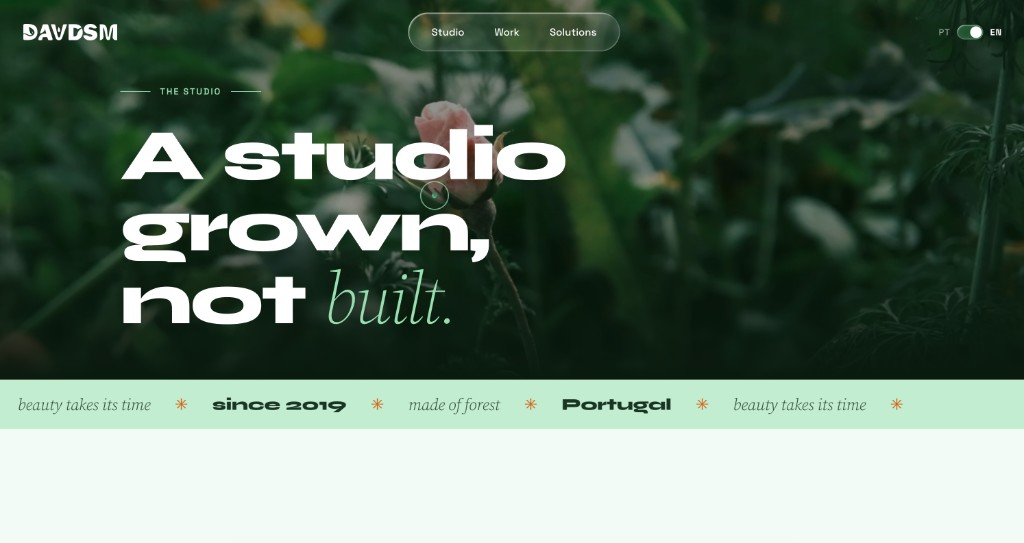
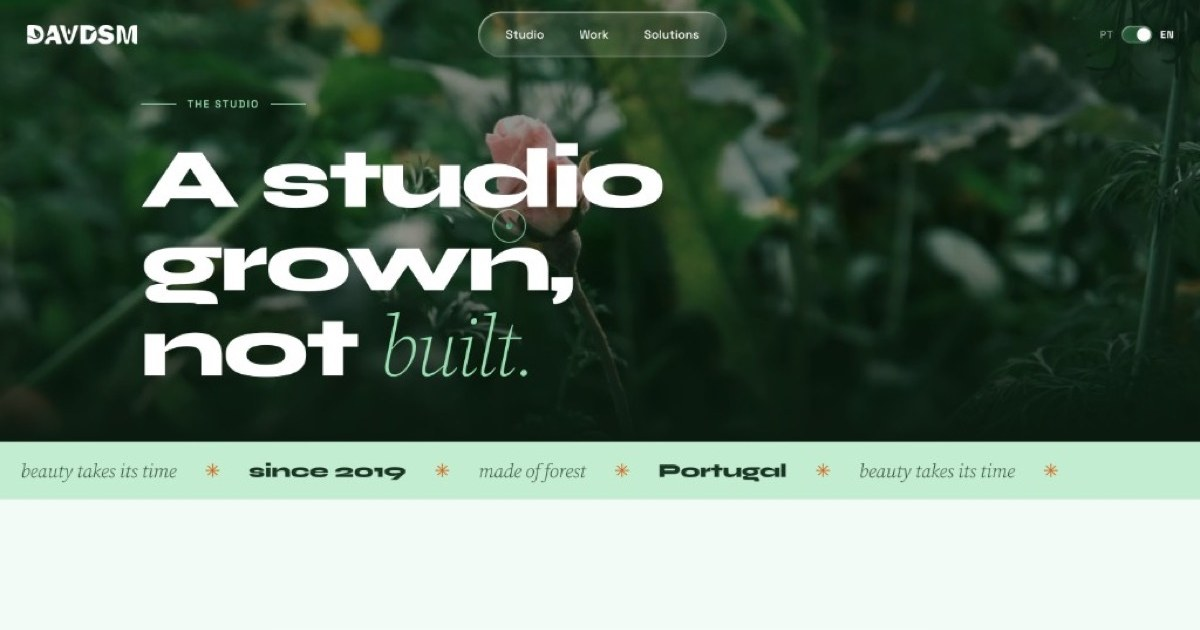
Tune WhatsApp share preview with OG title, description and image.

diff --git a/index.html b/index.html
@@ -5,26 +5,40 @@
     <link rel="icon" type="image/svg+xml" href="/favicon.svg" />
     <meta name="viewport" content="width=device-width, initial-scale=1.0" />
     <meta name="theme-color" content="#357248" />
-    <title>DAVDSM: Design &amp; code studio, Portugal</title>
-    <meta name="description" content="DAVDSM is a Portuguese design and code studio. We grow digital gardens — colour, form and craft, presented in full season." />
+    <title>DAVDSM — Design &amp; code studio, Portugal</title>
+    <meta
+      name="description"
+      content="We grow digital gardens. A Portuguese studio of design and code — colour, form and craft, presented in full season."
+    />
     <link rel="canonical" href="https://davdsm.pt/" />
 
+    <!-- Open Graph / WhatsApp / Facebook / LinkedIn -->
     <meta property="og:type" content="website" />
     <meta property="og:site_name" content="DAVDSM" />
     <meta property="og:url" content="https://davdsm.pt/" />
-    <meta property="og:title" content="DAVDSM: Design &amp; code studio, Portugal" />
-    <meta property="og:description" content="DAVDSM is a Portuguese design and code studio. We grow digital gardens — colour, form and craft, presented in full season." />
+    <meta property="og:title" content="DAVDSM — Design &amp; code studio, Portugal" />
+    <meta
+      property="og:description"
+      content="We grow digital gardens. A Portuguese studio of design and code — colour, form and craft, presented in full season."
+    />
     <meta property="og:image" content="https://davdsm.pt/og-image.jpg" />
+    <meta property="og:image:secure_url" content="https://davdsm.pt/og-image.jpg" />
     <meta property="og:image:type" content="image/jpeg" />
-    <meta property="og:image:width" content="1024" />
-    <meta property="og:image:height" content="543" />
+    <meta property="og:image:width" content="1200" />
+    <meta property="og:image:height" content="630" />
+    <meta property="og:image:alt" content="DAVDSM studio — a studio grown, not built." />
     <meta property="og:locale" content="en_GB" />
     <meta property="og:locale:alternate" content="pt_PT" />
 
+    <!-- Twitter / X -->
     <meta name="twitter:card" content="summary_large_image" />
-    <meta name="twitter:title" content="DAVDSM: Design &amp; code studio, Portugal" />
-    <meta name="twitter:description" content="DAVDSM is a Portuguese design and code studio. We grow digital gardens — colour, form and craft, presented in full season." />
+    <meta name="twitter:title" content="DAVDSM — Design &amp; code studio, Portugal" />
+    <meta
+      name="twitter:description"
+      content="We grow digital gardens. A Portuguese studio of design and code — colour, form and craft, presented in full season."
+    />
     <meta name="twitter:image" content="https://davdsm.pt/og-image.jpg" />
+    <meta name="twitter:image:alt" content="DAVDSM studio — a studio grown, not built." />
   </head>
   <body>
     <div id="root"></div>
